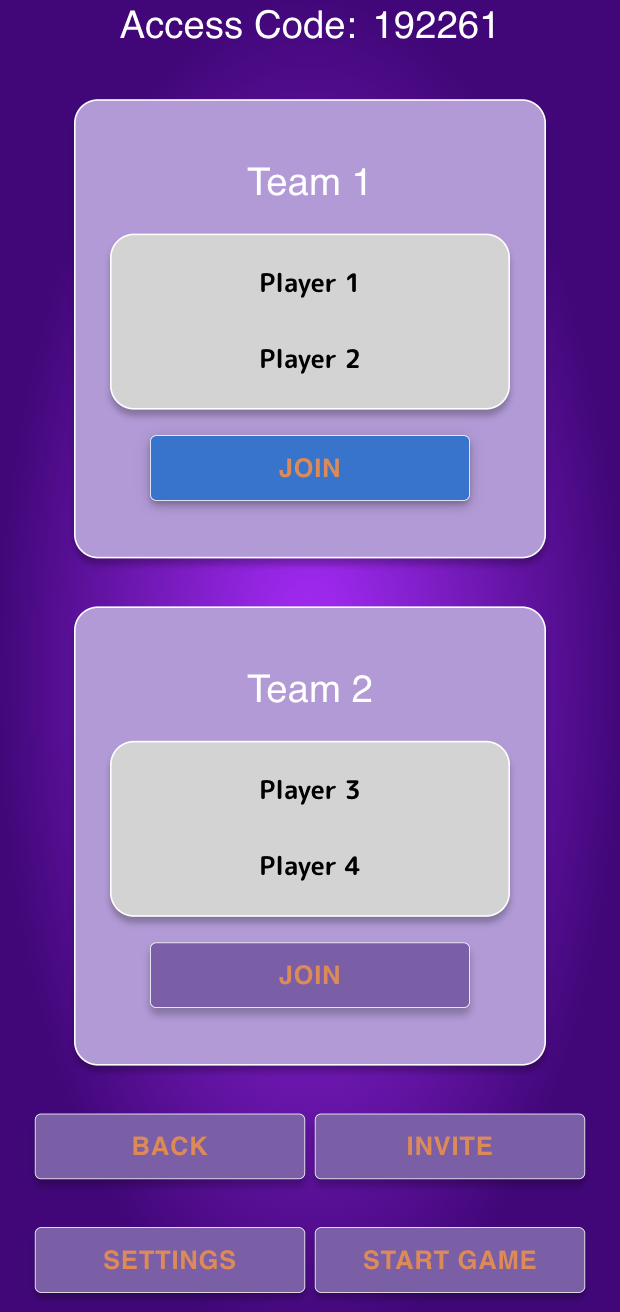
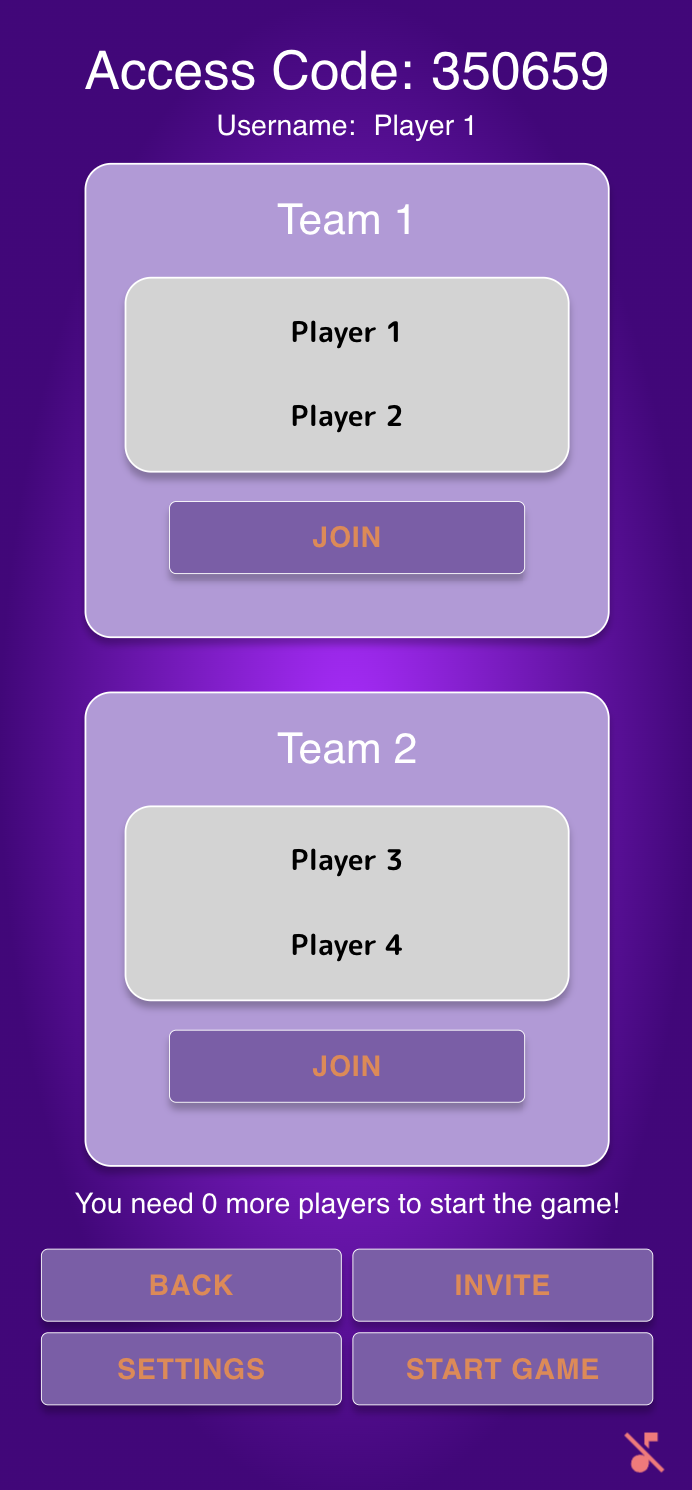
add screenshots

Changed region(s): [[0.0306, 0.0, 0.95, 1.0]]

diff --git a/README.md b/README.md
@@ -105,7 +105,7 @@ the [Pregame-Page](https://github.com/sopra-fs23-group-05/Client/blob/main/src/c
 
 ### Homepage
 <div style="display: flex; align-items: center; gap: 10px;">
-    <img src="./src/styles/Images/homePicture.png" alt="Image" width="150" height="300"> 
+    <img src="./src/styles/Images/HomepagePicture.png" alt="Image" width="150" height="300"> 
     <p style="max-width: 400px">
         Upon launching the game, you will be greeted by the homepage.Here, you have two options: to join an existing 
         lobby using a given access code or to create a new lobby. The lobby serves as a virtual room where players 
@@ -124,7 +124,7 @@ the [Pregame-Page](https://github.com/sopra-fs23-group-05/Client/blob/main/src/c
 
 ### Invite Friends
 <div style="display: flex; align-items: center; gap: 10px;">
-    <img src="./src/styles/Images/invitePicture.png" alt="Image" width="150" height="300"> 
+    <img src="./src/styles/Images/InvitePicture.png" alt="Image" width="150" height="300"> 
     <p style="max-width: 400px">
         To ensure a fun multiplayer experience, every user can navigate to the invite page.
         Here, you have the option to send an invite link or a QR code to your friends,
@@ -146,7 +146,9 @@ the [Pregame-Page](https://github.com/sopra-fs23-group-05/Client/blob/main/src/c
 
 ### Game-Play
 <div style="display: flex; align-items: center; gap: 10px;">
-    TODO import picture of game pages
+    <img src="./src/styles/Images/CluegiverPicture.png" alt="Image" width="150" height="300"> 
+    <img src="./src/styles/Images/GuesserPicture.png" alt="Image" width="150" height="300"> 
+    <img src="./src/styles/Images/BuzzerPicture.png" alt="Image" width="150" height="300">
     <p style="max-width: 400px">
         Once the game begins, each player will have access to a chat interface.
         This interface enables communication between team members and enhances collaboration during gameplay.
@@ -156,7 +158,7 @@ the [Pregame-Page](https://github.com/sopra-fs23-group-05/Client/blob/main/src/c
 
 ### End-Screen
 <div style="display: flex; align-items: center; gap: 10px;">
-    TODO import picture of end screen
+    <img src="./src/styles/Images/EndscreenPicture.png" alt="Image" width="150" height="300"> 
     <p style="max-width: 400px">
         At the end of the game, the end screen displays the team with the highest score, indicating their victory.
         Furthermore, the end screen showcases the individual player who successfully guessed the most words throughout the game. 
